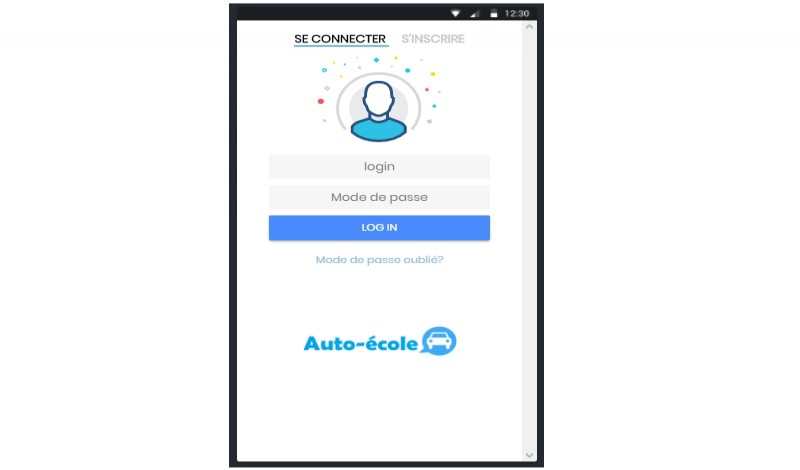
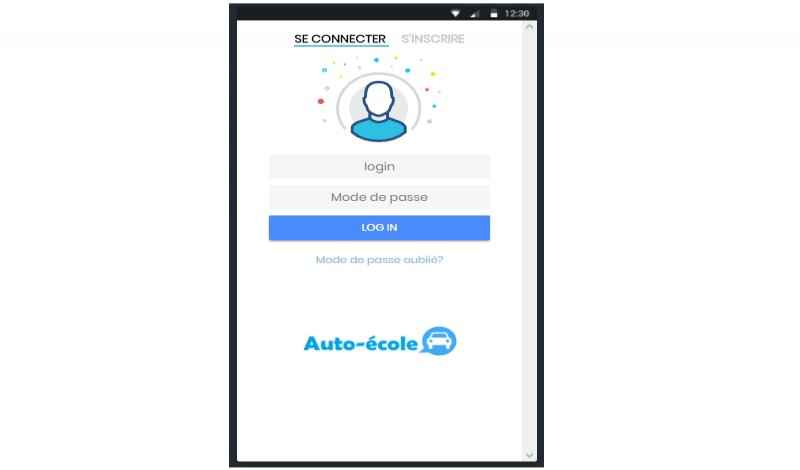
decrease quality of screenshot for performance

diff --git a/index.html b/index.html
@@ -418,14 +418,14 @@
 
                 <div class="img-slider slide3">
                     <div class="slide active">
-                        <img src="img/projet/projet3/1.png" alt="">
+                        <img src="img/projet/projet3/1.jpg" alt="">
                         <div class="info">
                             <h2>Slide 01</h2>
                             <p>L'interface d'accueil qui représente la liste des produits disponible dans notre système.</p>
                         </div>
                     </div>
                     <div class="slide">
-                        <img src="img/projet/projet3/2.png" alt="">
+                        <img src="img/projet/projet3/2.jpg" alt="">
                         <div class="info">
                             <h2>Slide 02</h2>
                             <p>L'interface qui représente les détails d'un produit.
@@ -433,7 +433,7 @@
                         </div>
                     </div>
                     <div class="slide">
-                        <img src="img/projet/projet3/3.png" alt="">
+                        <img src="img/projet/projet3/3.jpg" alt="">
                         <div class="info">
                             <h2>Slide 03</h2>
                             <p>L'interface qui représente les détails d'un produit dans laquelle ce dernier est en rupture de stock.
@@ -441,7 +441,7 @@
                         </div>
                     </div>
                     <div class="slide">
-                        <img src="img/projet/projet3/4.png" alt="">
+                        <img src="img/projet/projet3/4.jpg" alt="">
                         <div class="info">
                             <h2>Slide 04</h2>
                             <p>L'interface qui représente la page de contact pour nos clients.
@@ -449,7 +449,7 @@
                         </div>
                     </div>
                     <div class="slide">
-                        <img src="img/projet/projet3/5.png" alt="">
+                        <img src="img/projet/projet3/5.jpg" alt="">
                         <div class="info">
                             <h2>Slide 05</h2>
                             <p>L'interface qui représente les avis des clients concernant un produit.
@@ -457,7 +457,7 @@
                         </div>
                     </div>
                     <div class="slide">
-                        <img src="img/projet/projet3/6.png" alt="">
+                        <img src="img/projet/projet3/6.jpg" alt="">
                         <div class="info">
                             <h2>Slide 06</h2>
                             <p>L'interface qui représente le panier d'achat d'un client.
@@ -465,7 +465,7 @@
                         </div>
                     </div>
                     <div class="slide">
-                        <img src="img/projet/projet3/7.png" alt="">
+                        <img src="img/projet/projet3/7.jpg" alt="">
                         <div class="info">
                             <h2>Slide 07</h2>
                             <p>L'interface qui représente la liste des commandes d'achat d'un client.
@@ -504,7 +504,7 @@
                         </div>
                     </div>
                     <div class="slide">
-                        <img src="img/projet/projet2/2.png" alt="">
+                        <img src="img/projet/projet2/2.jpg" alt="">
                         <div class="info">
                             <h2>Slide 02</h2>
                             <p>L'interface de l'application web pour consulter une question concernant une plante et de répondre à ce dernier.
